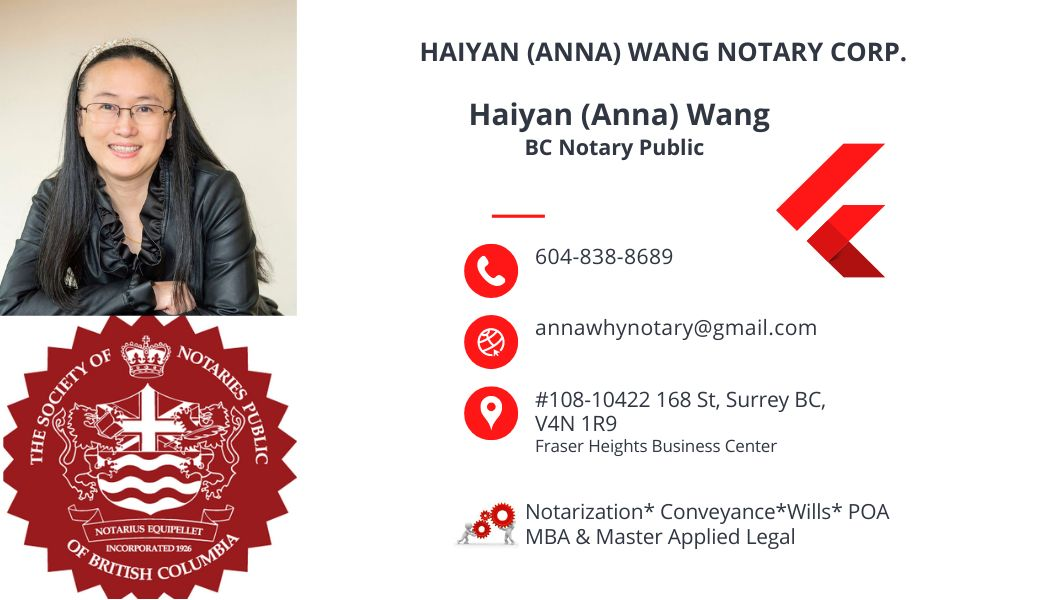
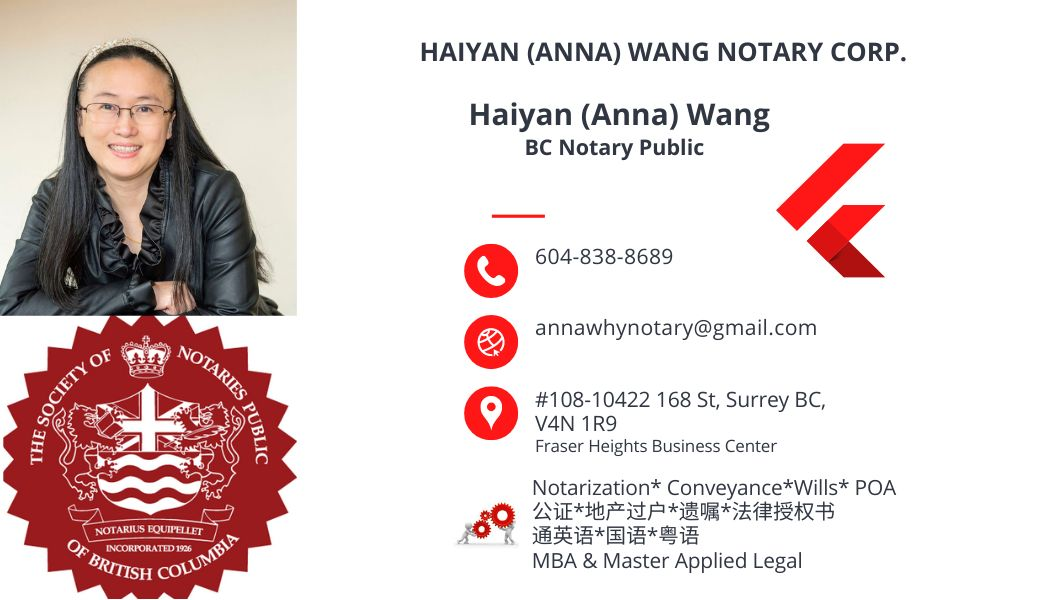
business cards yes

Changed region(s): [[0.4876, 0.78, 0.8533, 0.96]]

diff --git a/index_en.html b/index_en.html
@@ -193,7 +193,7 @@
             <p>You can always email us at <i>annawhynotary@gmail.com.
             </i>
             </p>
-            <img src="images/leaf-247x300.jpg" />
+            <img src="images/businesscard_en.jpg" />
         </div>
 
     </div>

diff --git a/moreInfo_en.html b/moreInfo_en.html
@@ -124,7 +124,7 @@
             <span class="centered"><p></p></span>
             <span class="centered"><p>---</p></span>
 
-            <img src="images/leaf-247x300.jpg" />
+            <img src="images/businesscard_en.jpg" />
         </div>
 
     </div>

diff --git a/index_cn.html b/index_cn.html
@@ -222,7 +222,7 @@
             </i>
                 给我们发送电子邮件。
             </p>
-            <img src="images/leaf-247x300.jpg" />
+            <img src="images/businesscard_cn.jpg" />
         </div>
 
     </div>

diff --git a/moreInfo_cn.html b/moreInfo_cn.html
@@ -161,7 +161,7 @@
             <span class="centered"><p>---</p></span>
 
 
-            <img src="images/leaf-247x300.jpg" />
+            <img src="images/businesscard_cn.jpg" />
         </div>
 
     </div>
